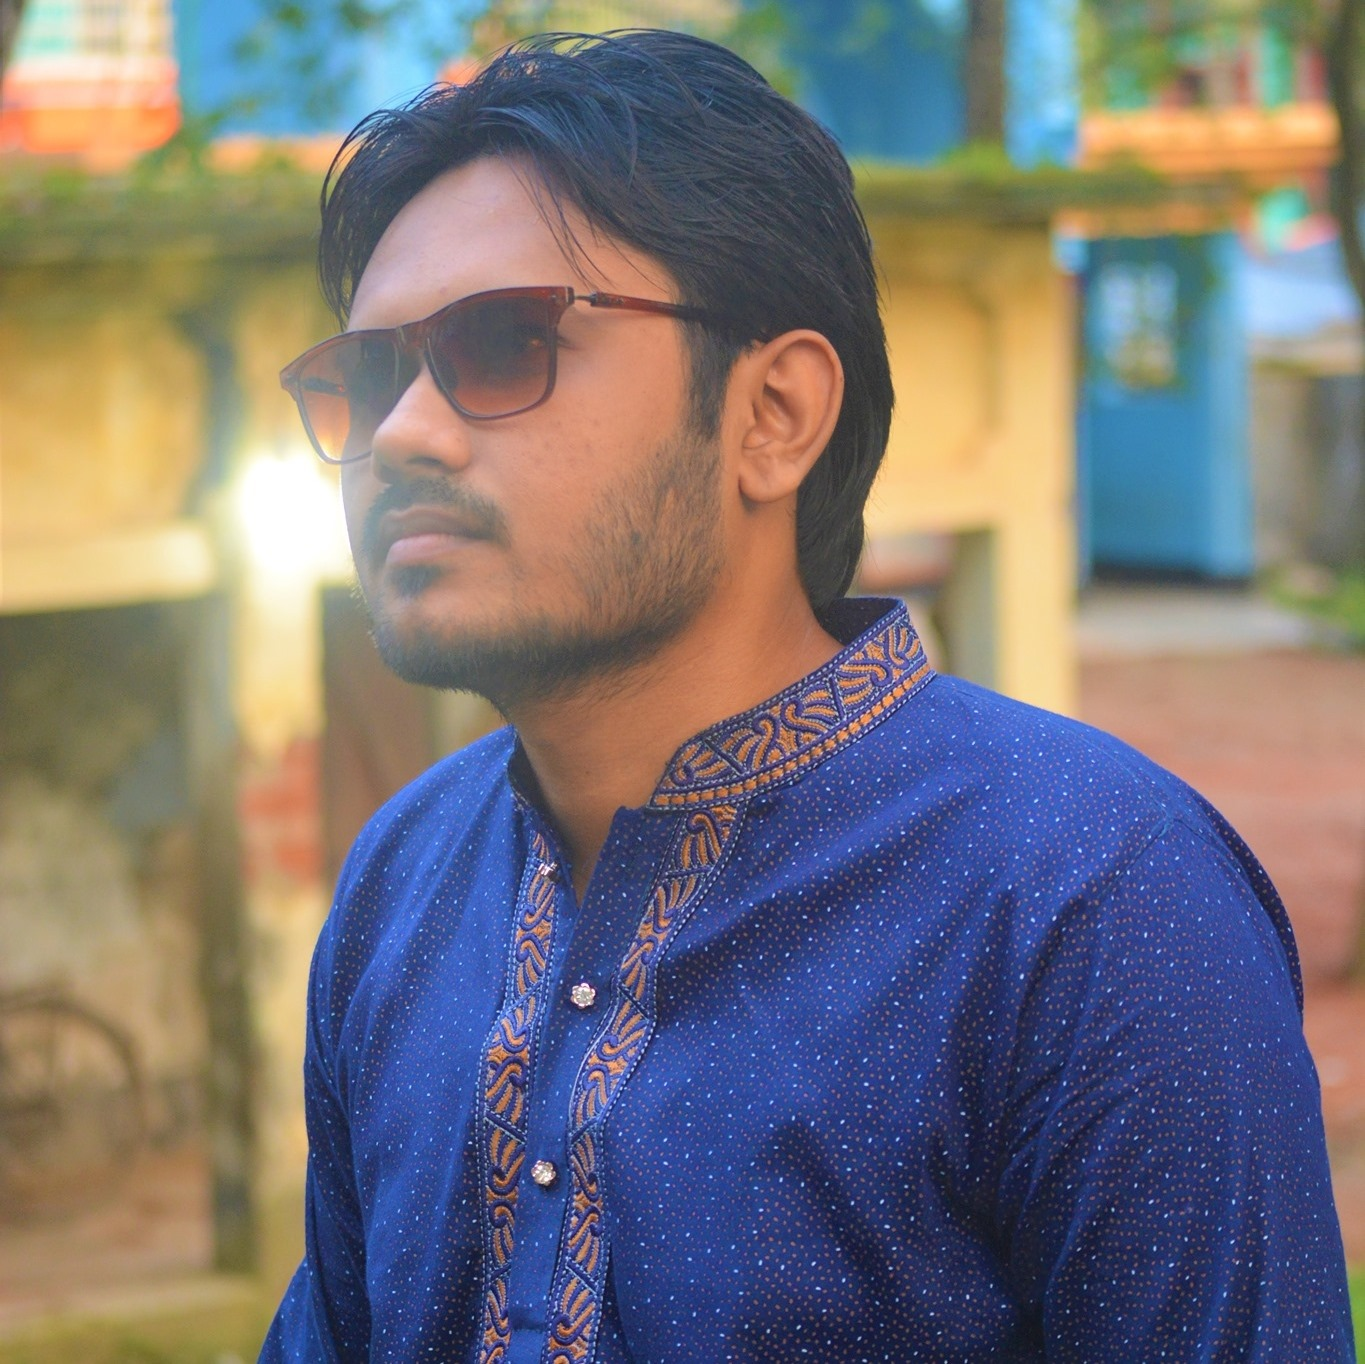
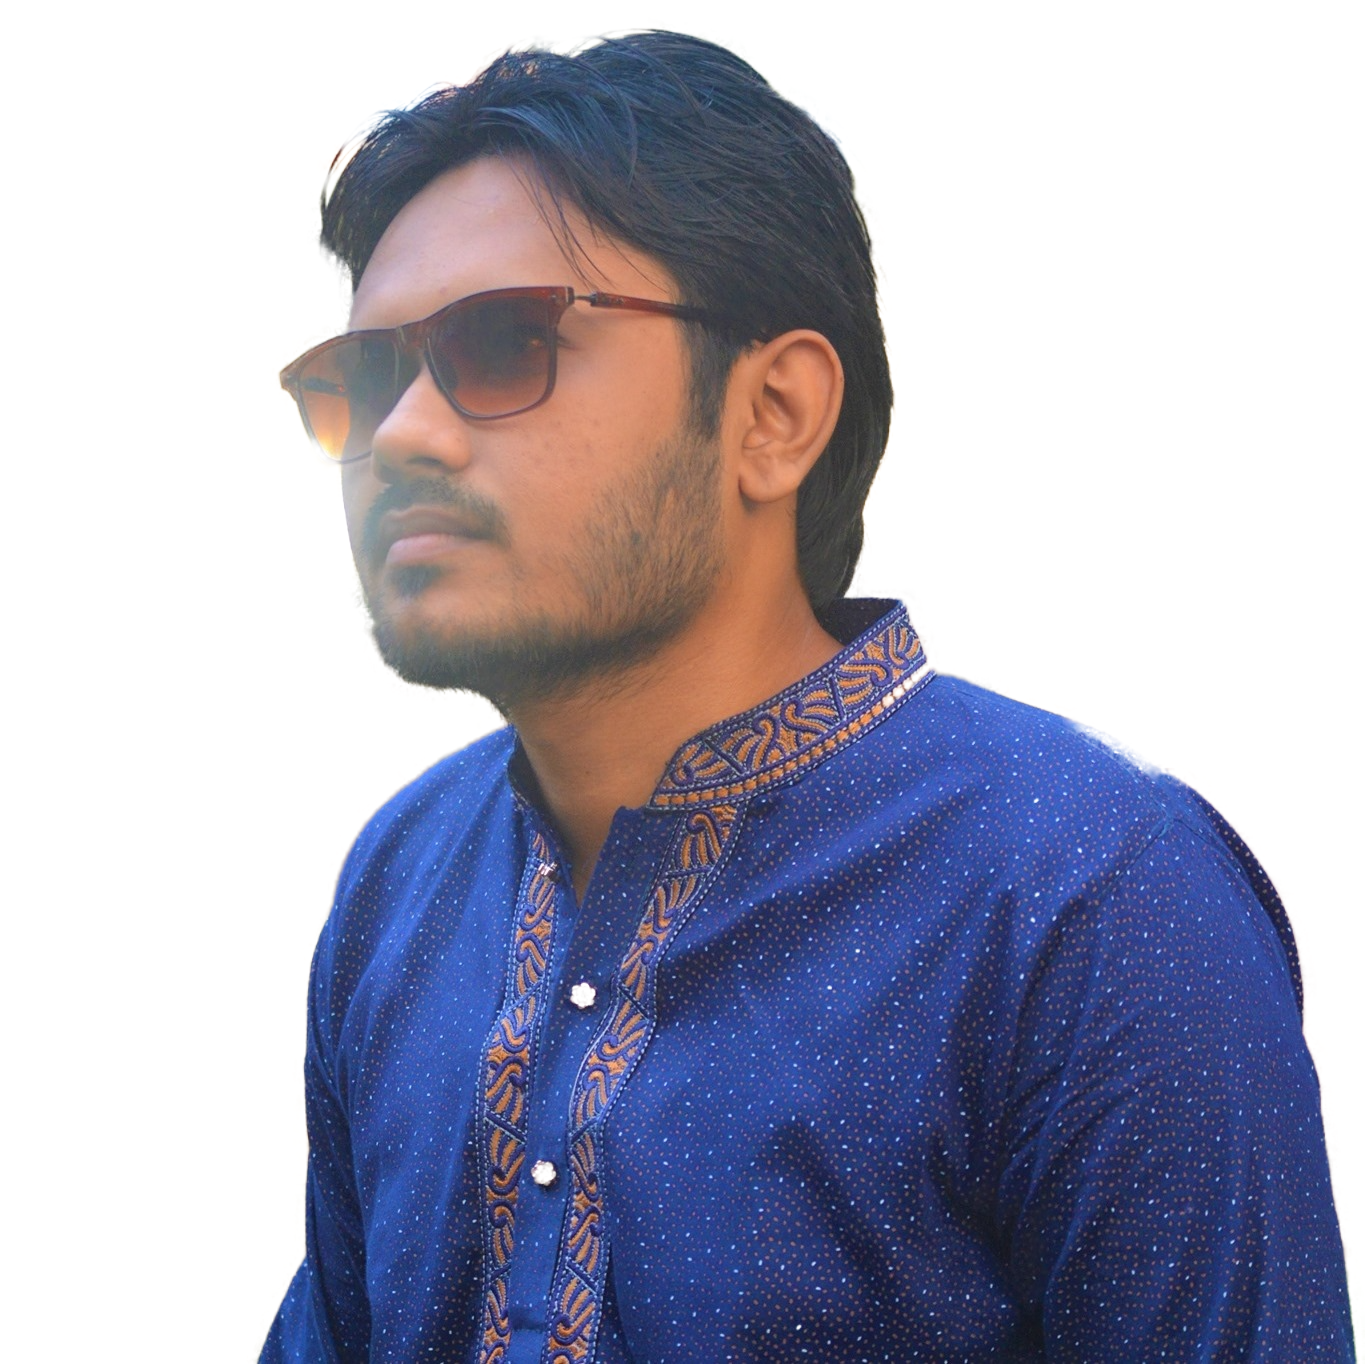
Added New feautures

diff --git a/index.html b/index.html
@@ -1,0 +1,24 @@
+<!DOCTYPE html>
+<html lang="en">
+<head>
+    <meta charset="UTF-8">
+    <meta name="viewport" content="width=device-width, initial-scale=1.0">
+    <title>Emon Portfolio Website</title>
+    <link rel="stylesheet" href="style.css">
+    <link rel="preconnect" href="https://fonts.gstatic.com">
+    <link href="https://fonts.googleapis.com/css2?family=Poppins:wght@300;400&display=swap" rel="stylesheet">
+</head>
+<body>
+    <section class="top">
+        <div class="top-hero">
+            <h1>Welcome To</h1>
+            <h1><span class="highlight">Emon</span> Website</h1>
+            <h3>World Class Professional Full-Stack Web Dev</h3>
+            <p>Hi, I'm Emon Biswas. I do web development professionally. I know HTML5, CSS3, JavaScript, React, NodeJS, MongoDB, FireBase, ExpressJS, Python. I have 3+ years experience.</p>
+        </div>
+        <div class="top-hero">
+            <img src="images/my-bg1.png" alt="">
+        </div>
+    </section>
+</body>
+</html>

diff --git a/style.css b/style.css
@@ -1,0 +1,21 @@
+body{
+    font-family: 'Poppins', sans-serif;
+    margin: 0;
+}
+
+h1{
+    font-size: 50px;
+}
+
+.highlight{
+    color: #F78567;
+}
+
+.top-hero{
+    width: 40%;
+    float: left;
+    margin-left: 3%;
+}
+.top-hero img{
+    width: 100%;
+}
